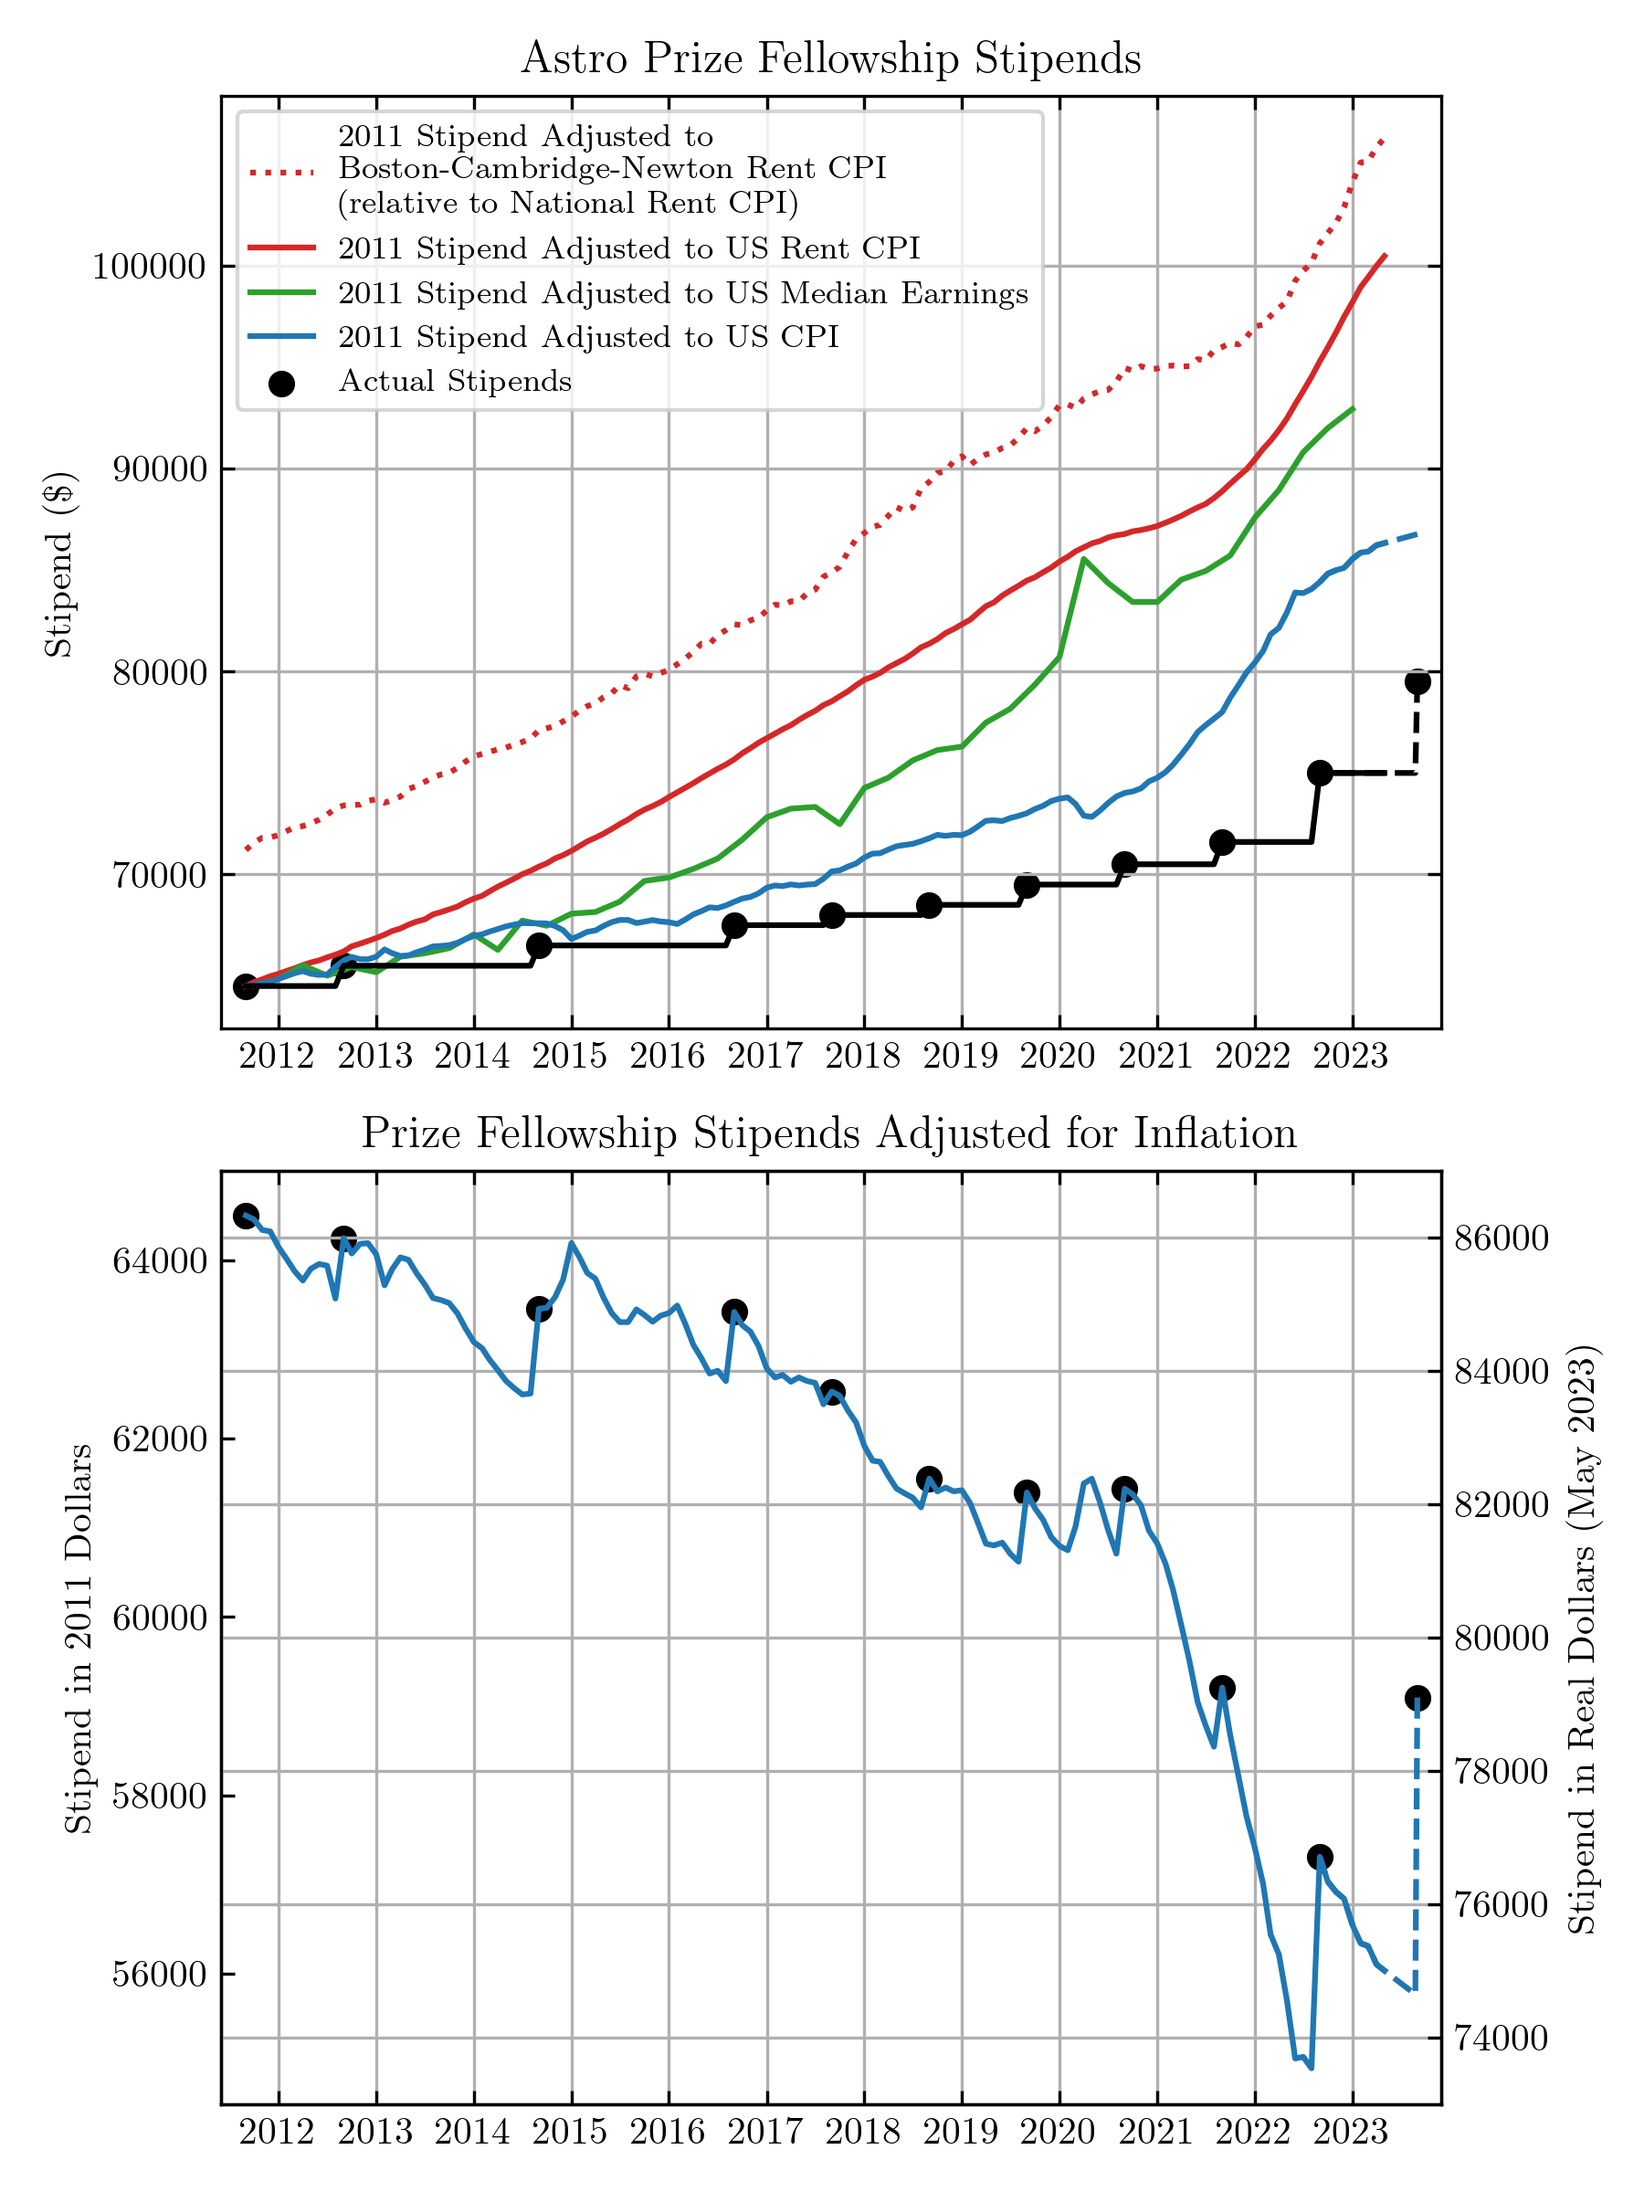
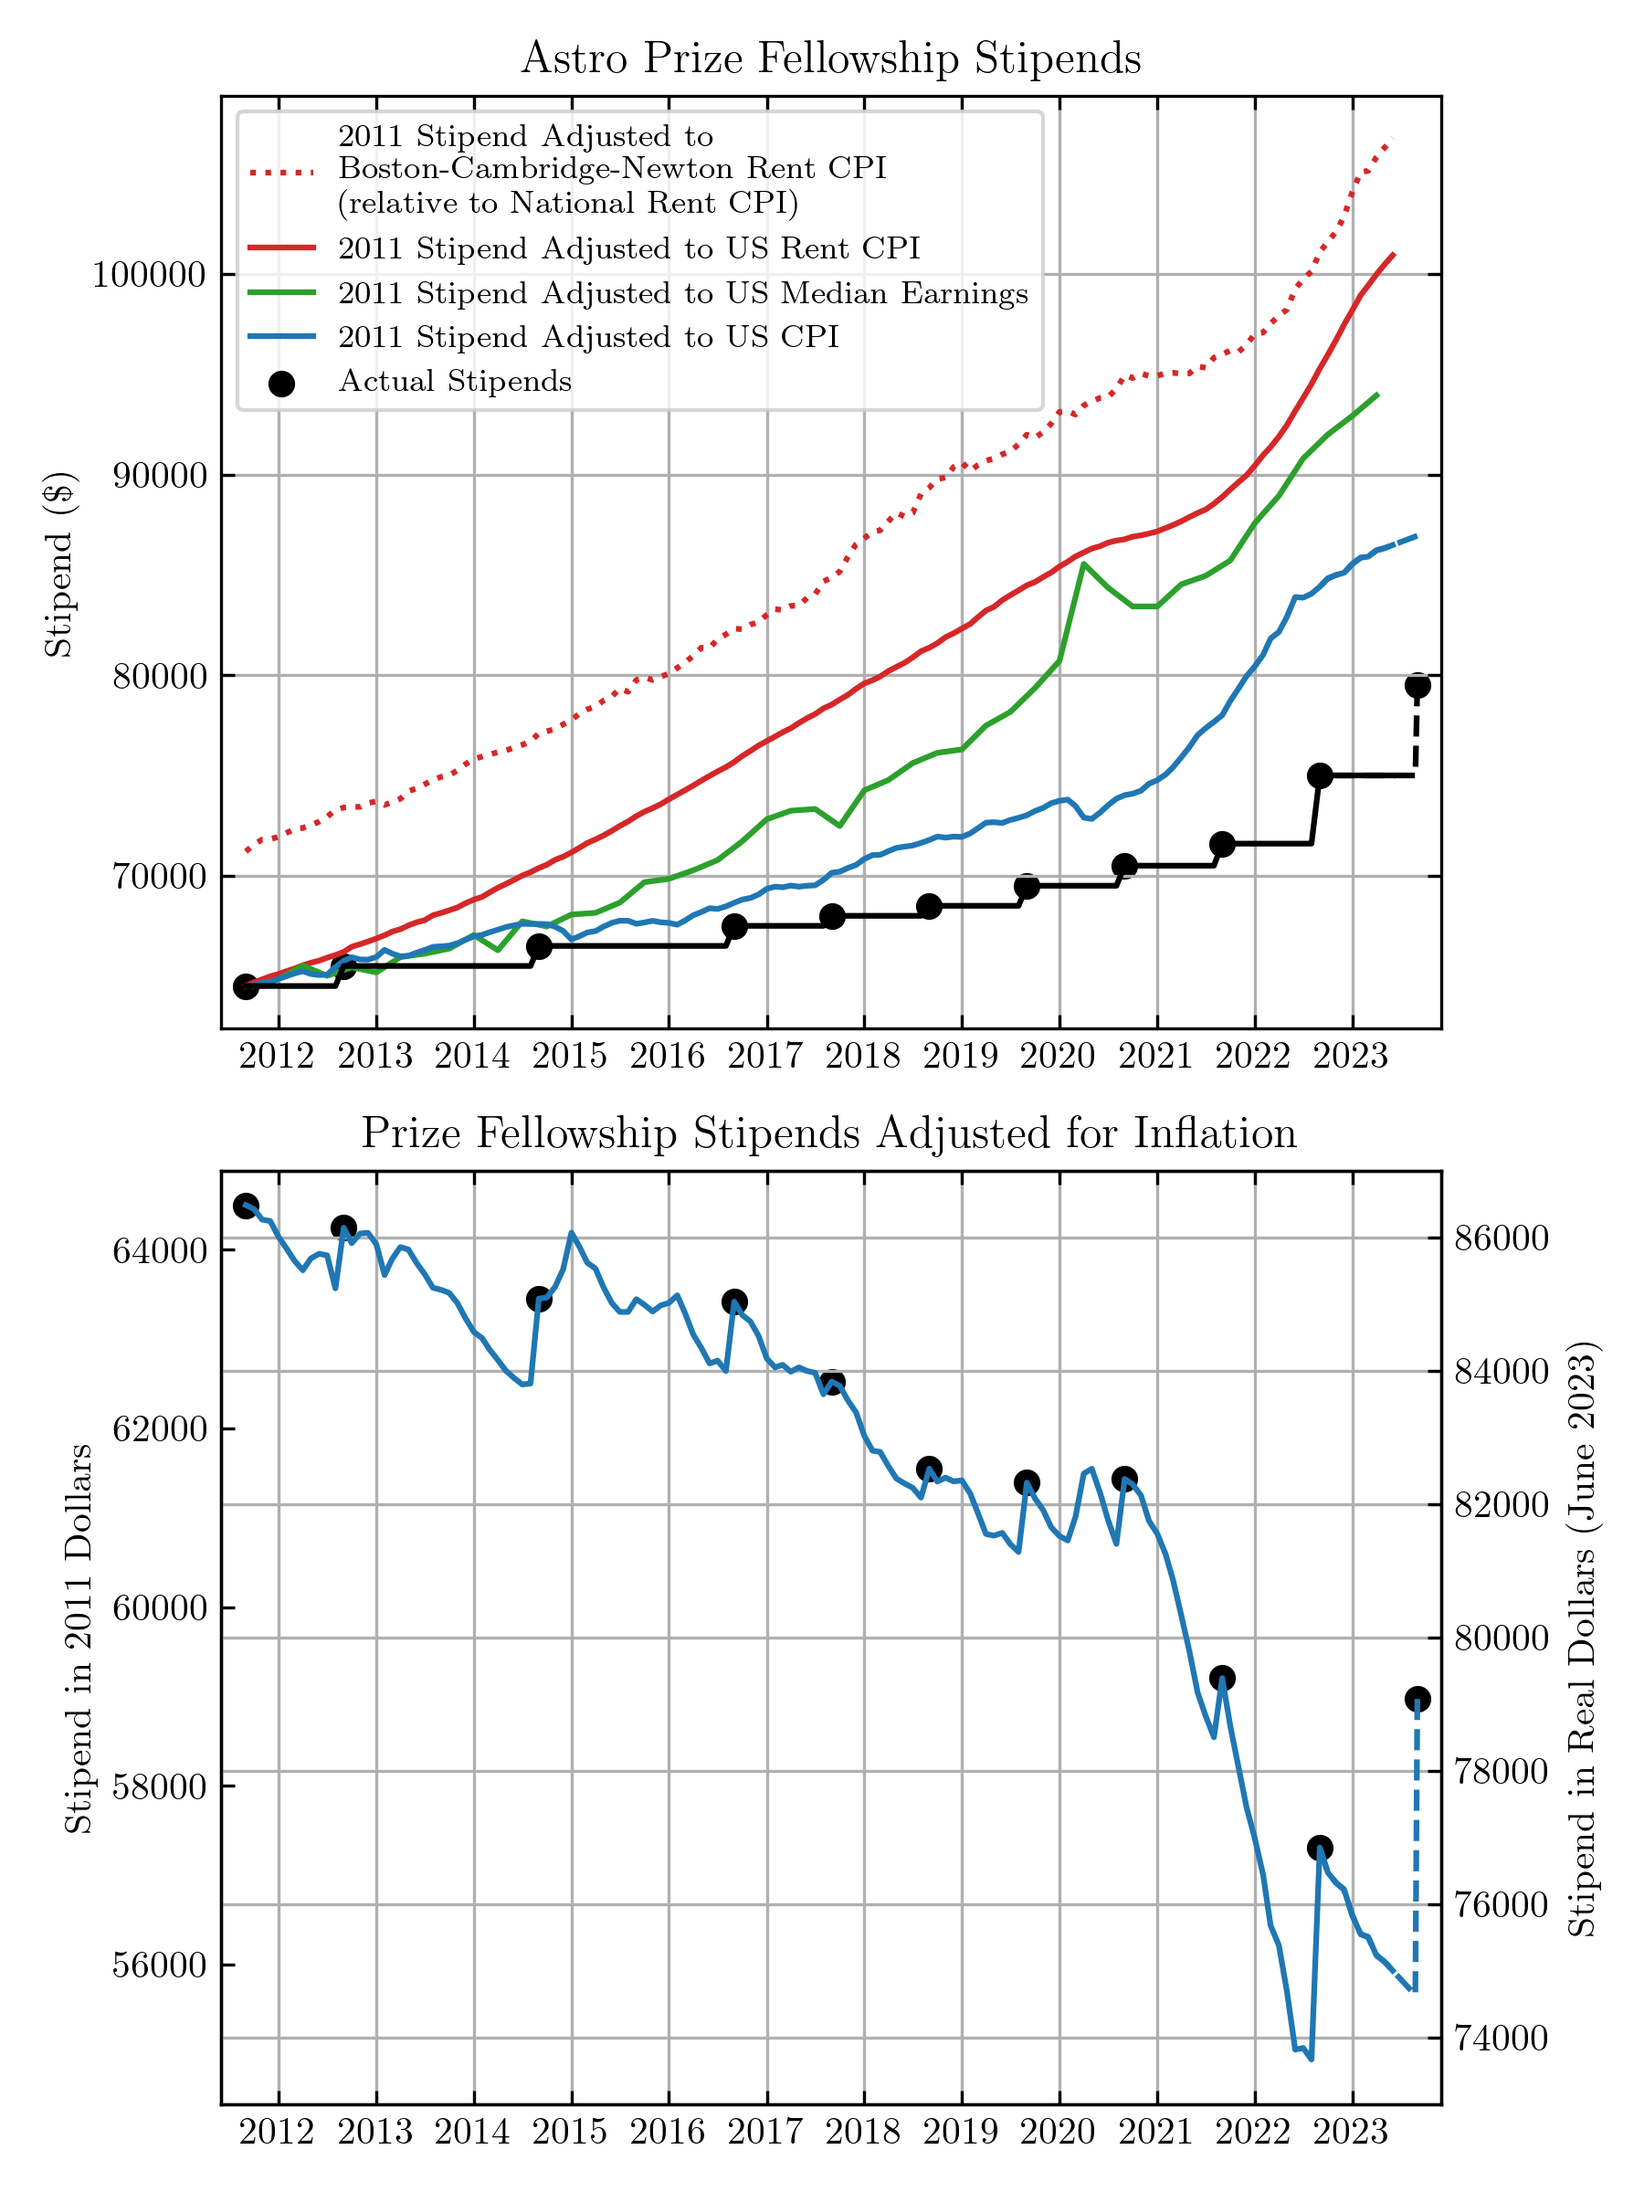
update for June 2023 inflation report

diff --git a/plot.py b/plot.py
@@ -87,7 +87,7 @@ ymax = 87000
 ymin = 73000
 ax2 = ax[1].twinx()
 ax2.set_ylim(ymin,ymax)
-ax2.set_ylabel('Stipend in Real Dollars (May 2023)')
+ax2.set_ylabel('Stipend in Real Dollars (June 2023)')
 ax[1].grid(False,axis='y')
 ax[1].set_ylabel('Stipend in 2011 Dollars')
 ax[1].set_ylim(ymin*cpi[0]/cpi[-1],ymax*cpi[0]/cpi[-1])
